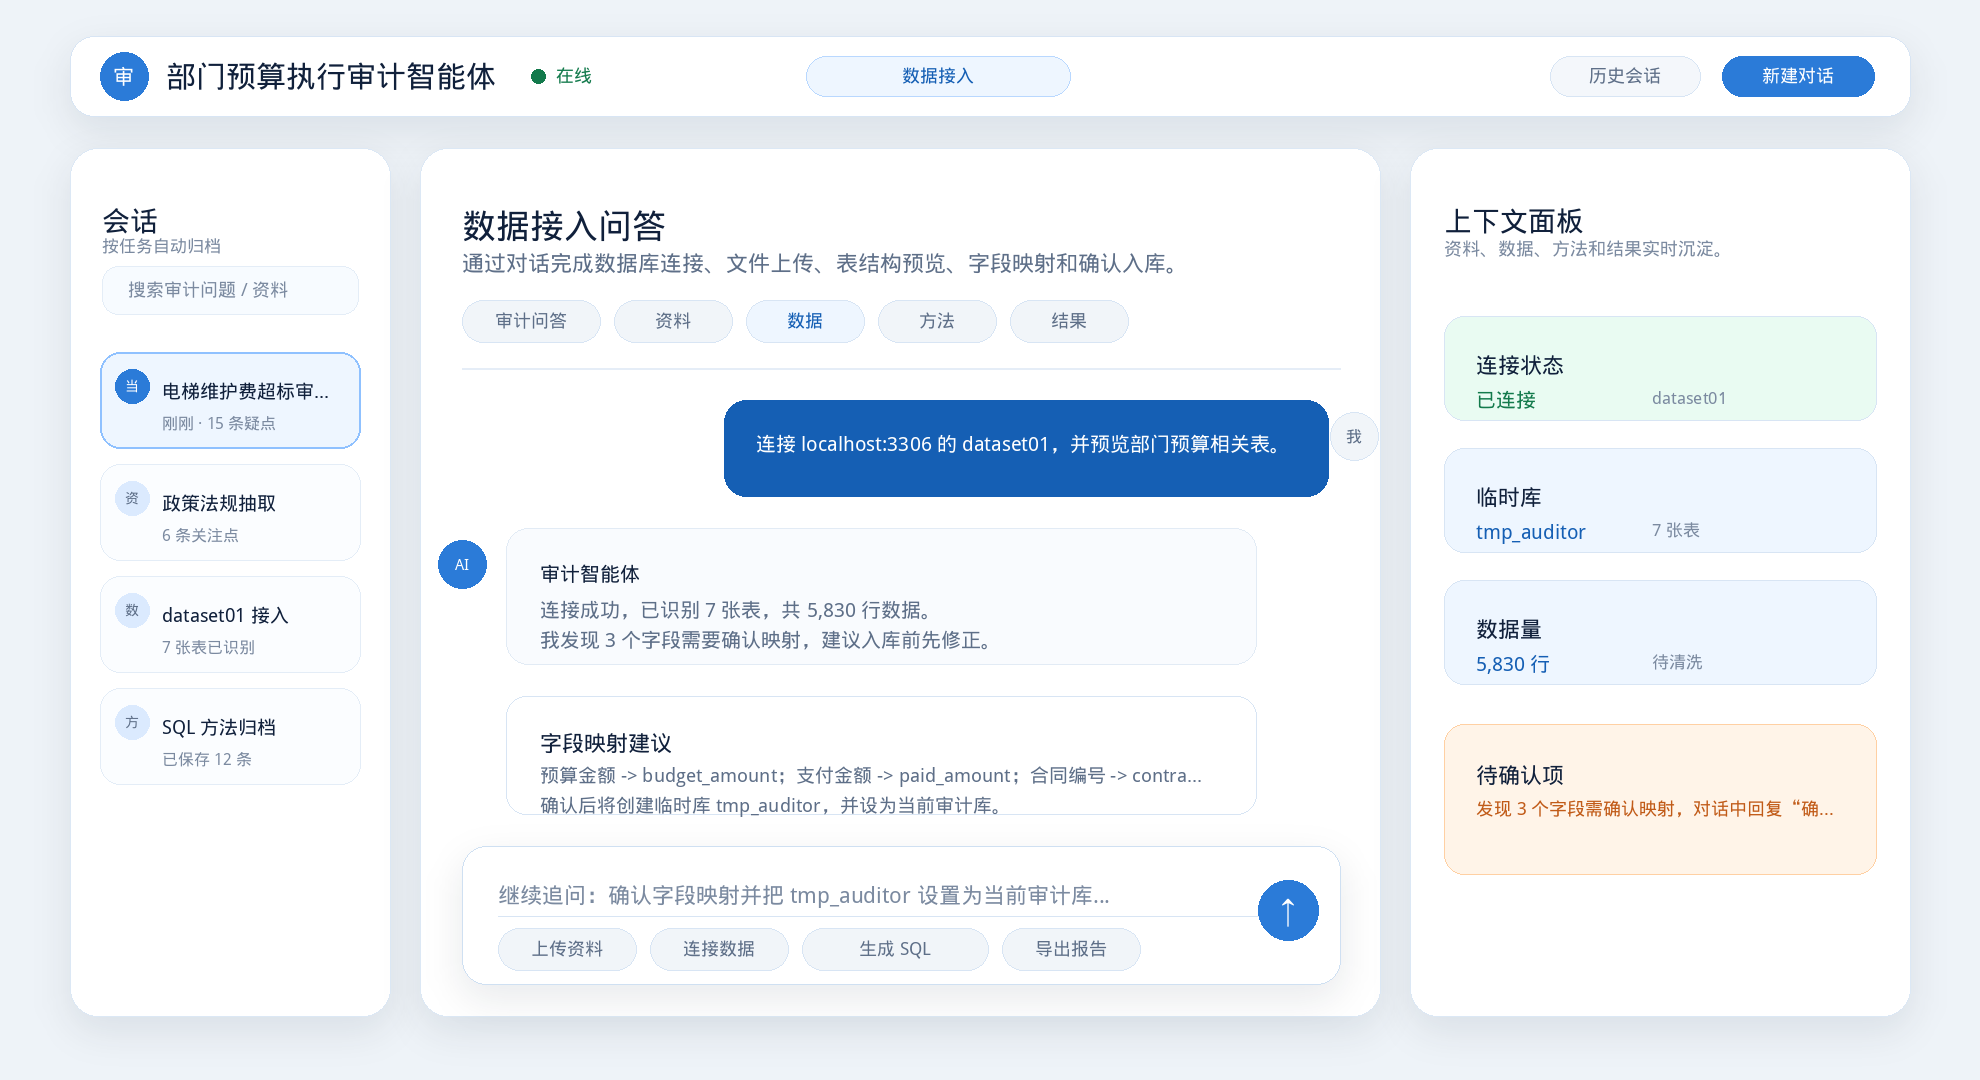
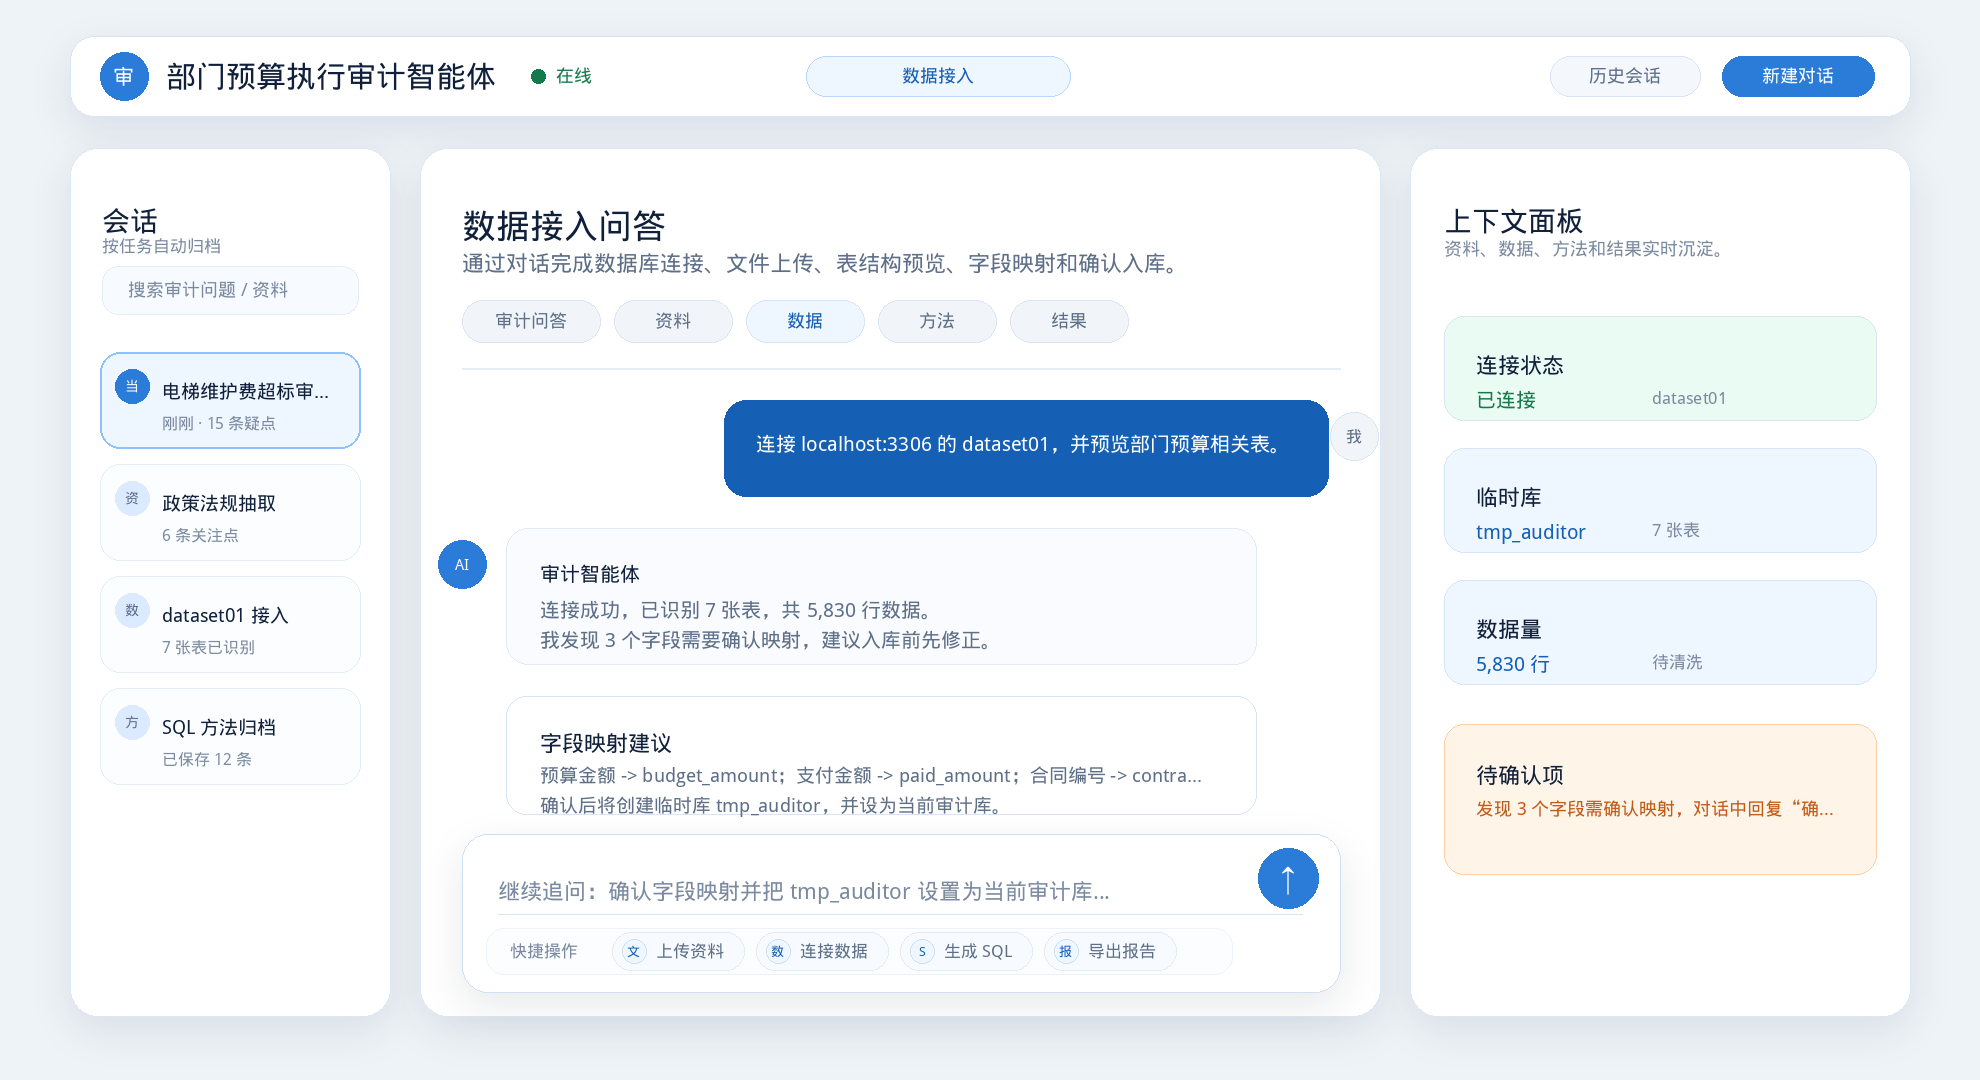
Redesign chat input action toolbar

Changed region(s): [[0.2465, 0.7944, 0.5854, 0.8861], [0.6162, 0.7639, 0.6778, 0.8861]]

diff --git a/scripts/generate_design_assets.py b/scripts/generate_design_assets.py
@@ -168,6 +168,14 @@ def chip(c: Canvas, x: int, y: int, label: str, w: int | None = None, active: bo
     return x + w + 14
 
 
+def action_chip(c: Canvas, x: int, y: int, label: str, icon: str, w: int = 132) -> int:
+    c.rounded((x, y, x + w, y + 38), 19, "#f7fbff", "#e1ebf5")
+    c.circle(x + 22, y + 19, 12, COLORS["blue_soft"], "#cfe0f2")
+    c.text((x + 22, y + 19), icon, 13, COLORS["blue_dark"], "mm")
+    c.text((x + 44, y + 19), label, 17, COLORS["muted"], "lm")
+    return x + w + 12
+
+
 def icon_button(c: Canvas, x: int, y: int, label: str) -> None:
     c.rounded((x, y, x + 140, y + 48), 16, COLORS["surface"], COLORS["line"])
     c.text((x + 70, y + 24), label, 18, COLORS["blue_dark"], "mm")
@@ -230,14 +238,17 @@ def user_bubble(c: Canvas, y: int, lines: list[str], h: int = 92) -> None:
 
 
 def input_box(c: Canvas, placeholder: str = "输入审计问题，或拖拽政策、Excel、CSV 到这里...") -> None:
-    c.rounded((462, 846, 1340, 984), 24, COLORS["surface"], "#cfe0f2", shadow=True)
-    c.text((498, 882), placeholder, 22, COLORS["subtle"], max_width=690)
-    c.line((498, 916, 1302, 916), COLORS["line"], 1)
-    x = 498
-    for label in ["上传资料", "连接数据", "生成 SQL", "导出报告"]:
-        x = chip(c, x, 928, label)
-    c.circle(1288, 910, 30, COLORS["blue"])
-    c.text((1288, 910), "↑", 28, COLORS["white"], "mm")
+    c.rounded((462, 834, 1340, 992), 26, COLORS["surface"], "#cfe0f2", shadow=True)
+    c.text((498, 878), placeholder, 22, COLORS["subtle"], max_width=690)
+    c.circle(1288, 878, 30, COLORS["blue"])
+    c.text((1288, 878), "↑", 28, COLORS["white"], "mm")
+    c.line((498, 914, 1302, 914), COLORS["line"], 1)
+    c.rounded((486, 928, 1232, 974), 18, "#fbfdff", "#edf3f9")
+    c.text((510, 951), "快捷操作", 17, COLORS["subtle"], "lm")
+    x = 612
+    actions = [("上传资料", "文"), ("连接数据", "数"), ("生成 SQL", "S"), ("导出报告", "报")]
+    for label, icon in actions:
+        x = action_chip(c, x, 932, label, icon)
 
 
 def side_stat(c: Canvas, y: int, title: str, value: str, desc: str, color: str = COLORS["blue_soft"]) -> None:

diff --git a/docs/guided-access-design.md b/docs/guided-access-design.md
@@ -25,6 +25,7 @@
 - 中间主区：标题、场景标签、消息流、底部输入框和快捷操作。
 - 右侧栏：上下文面板，展示资料、数据、方法和结果状态。
 - 三栏采用独立卡片布局，面板顶部、底部和栏间距统一，减少嵌套容器带来的拥挤感。
+- 输入框采用“输入区 + 分隔线 + 快捷工具栏”结构，快捷操作按钮不与输入框外边界重叠。
 - 生成方式：运行 `python3 scripts/generate_design_assets.py` 可同步生成 SVG 源稿和 PNG 预览图。
 
 ## 对话式交互结构
